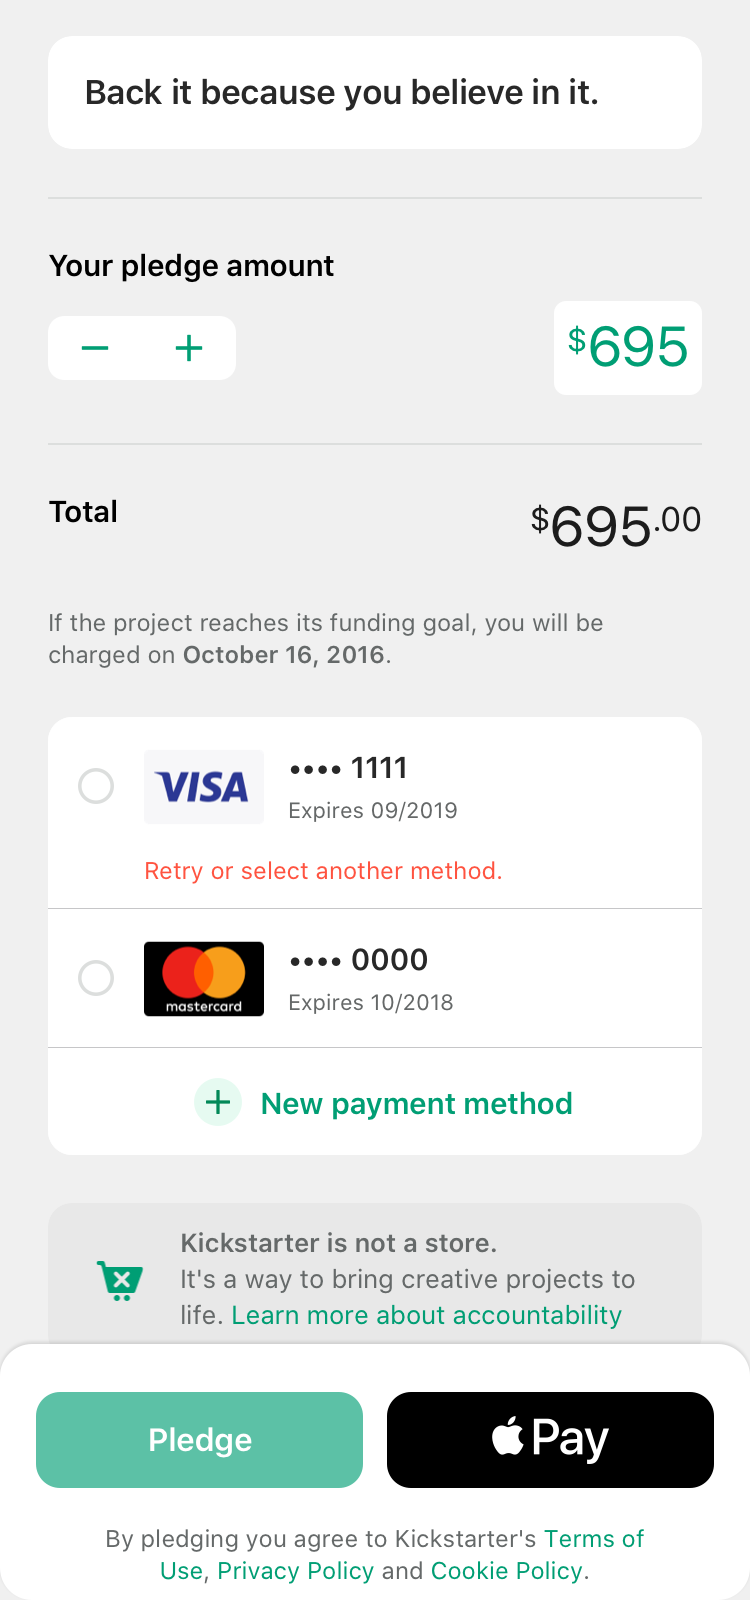
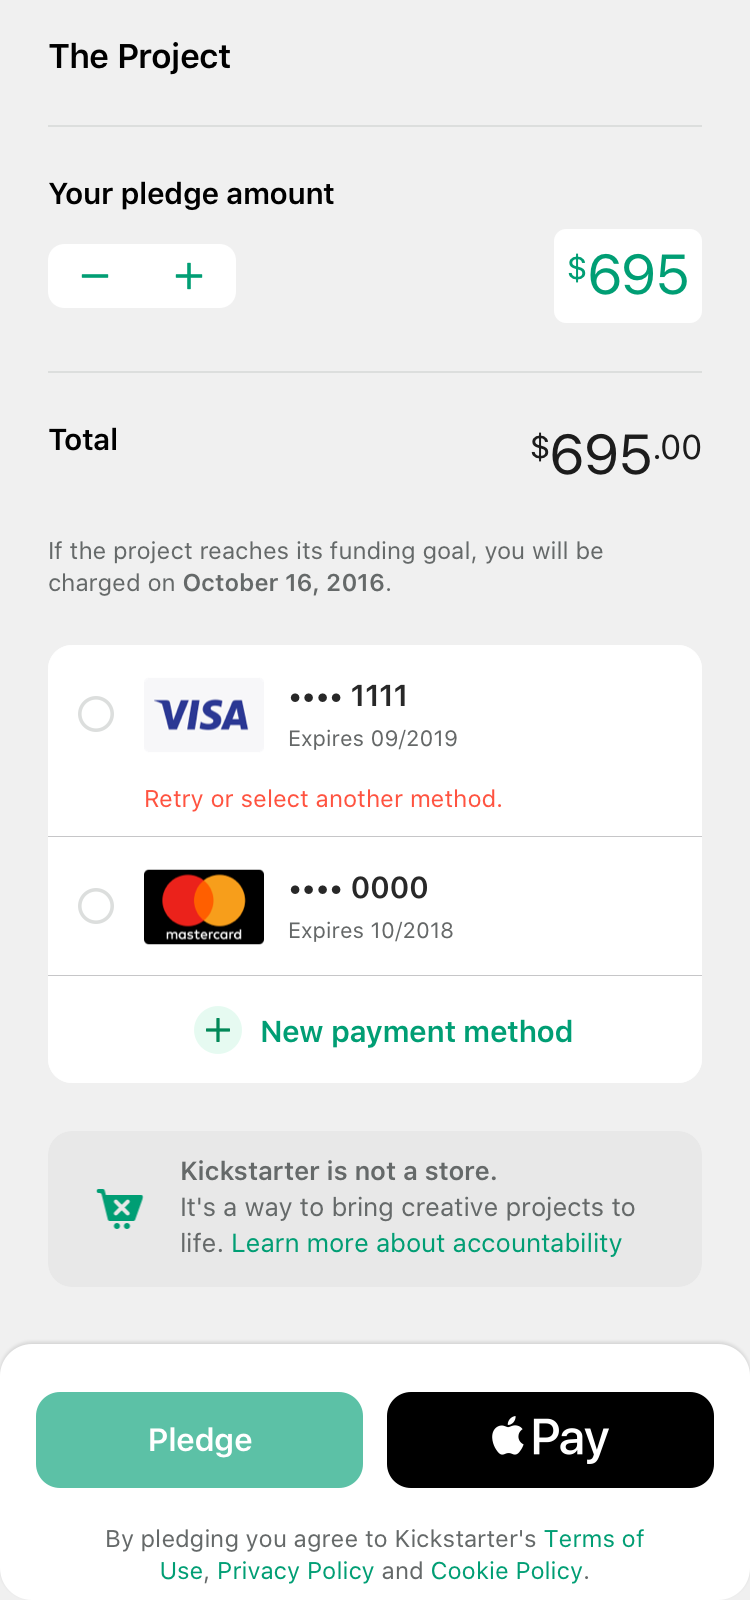
Replace PledgeDescriptionView with project title label

diff --git a/Library/ViewModels/PledgeViewModelTests.swift b/Library/ViewModels/PledgeViewModelTests.swift
@@ -41,7 +41,6 @@ final class PledgeViewModelTests: TestCase {
   private let configureWithPledgeViewDataProject = TestObserver<Project, Never>()
   private let configureWithPledgeViewDataReward = TestObserver<Reward, Never>()
 
-  private let descriptionViewHidden = TestObserver<Bool, Never>()
   private let descriptionSectionSeparatorHidden = TestObserver<Bool, Never>()
   private let expandableRewardsHeaderViewHidden = TestObserver<Bool, Never>()
 
@@ -62,6 +61,8 @@ final class PledgeViewModelTests: TestCase {
   private let pledgeAmountSummaryViewHidden = TestObserver<Bool, Never>()
   private let popToRootViewController = TestObserver<(), Never>()
   private let processingViewIsHidden = TestObserver<Bool, Never>()
+  private let projectTitle = TestObserver<String, Never>()
+  private let projectTitleLabelHidden = TestObserver<Bool, Never>()
   private let shippingLocationViewHidden = TestObserver<Bool, Never>()
   private let showApplePayAlertMessage = TestObserver<String, Never>()
   private let showApplePayAlertTitle = TestObserver<String, Never>()
@@ -118,7 +119,8 @@ final class PledgeViewModelTests: TestCase {
     self.vm.outputs.configureStripeIntegration.map(second)
       .observe(self.configureStripeIntegrationPublishableKey.observer)
 
-    self.vm.outputs.descriptionViewHidden.observe(self.descriptionViewHidden.observer)
+    self.vm.outputs.projectTitle.observe(self.projectTitle.observer)
+    self.vm.outputs.projectTitleLabelHidden.observe(self.projectTitleLabelHidden.observer)
     self.vm.outputs.descriptionSectionSeparatorHidden.observe(self.descriptionSectionSeparatorHidden.observer)
     self.vm.outputs.expandableRewardsHeaderViewHidden.observe(self.expandableRewardsHeaderViewHidden.observer)
 
@@ -205,7 +207,8 @@ final class PledgeViewModelTests: TestCase {
 
       self.configureSummaryViewControllerWithDataConfirmationLabelHidden.assertValues([false])
 
-      self.descriptionViewHidden.assertValues([true])
+      self.projectTitle.assertValues(["The Project"])
+      self.projectTitleLabelHidden.assertValues([true])
       self.expandableRewardsHeaderViewHidden.assertValues([false])
       self.rootStackViewLayoutMargins.assertValues([.init(bottom: Styles.grid(3))])
 
@@ -254,7 +257,8 @@ final class PledgeViewModelTests: TestCase {
 
       self.configureSummaryViewControllerWithDataConfirmationLabelHidden.assertValues([false])
 
-      self.descriptionViewHidden.assertValues([true])
+      self.projectTitle.assertValues(["The Project"])
+      self.projectTitleLabelHidden.assertValues([true])
       self.expandableRewardsHeaderViewHidden.assertValues([false])
       self.rootStackViewLayoutMargins.assertValues([.init(bottom: Styles.grid(3))])
 
@@ -303,7 +307,8 @@ final class PledgeViewModelTests: TestCase {
 
       self.configureSummaryViewControllerWithDataConfirmationLabelHidden.assertValues([false])
 
-      self.descriptionViewHidden.assertValues([true])
+      self.projectTitle.assertValues(["The Project"])
+      self.projectTitleLabelHidden.assertValues([true])
       self.expandableRewardsHeaderViewHidden.assertValues([true])
       self.rootStackViewLayoutMargins.assertValues([.init(topBottom: Styles.grid(3))])
 
@@ -354,7 +359,8 @@ final class PledgeViewModelTests: TestCase {
 
       self.configureSummaryViewControllerWithDataConfirmationLabelHidden.assertValues([true])
 
-      self.descriptionViewHidden.assertValues([true])
+      self.projectTitle.assertValues(["The Project"])
+      self.projectTitleLabelHidden.assertValues([true])
       self.expandableRewardsHeaderViewHidden.assertValues([false])
       self.rootStackViewLayoutMargins.assertValues([.init(bottom: Styles.grid(3))])
 
@@ -416,7 +422,8 @@ final class PledgeViewModelTests: TestCase {
 
       self.configureSummaryViewControllerWithDataConfirmationLabelHidden.assertValues([true])
 
-      self.descriptionViewHidden.assertValues([true])
+      self.projectTitle.assertValues(["The Project"])
+      self.projectTitleLabelHidden.assertValues([true])
       self.expandableRewardsHeaderViewHidden.assertValues([true])
       self.rootStackViewLayoutMargins.assertValues([.init(topBottom: Styles.grid(3))])
 
@@ -484,7 +491,8 @@ final class PledgeViewModelTests: TestCase {
 
       self.configurePledgeViewCTAContainerViewWillRetryPaymentMethod.assertValues([false])
 
-      self.descriptionViewHidden.assertValues([true])
+      self.projectTitle.assertValues(["The Project"])
+      self.projectTitleLabelHidden.assertValues([true])
       self.expandableRewardsHeaderViewHidden.assertValues([true])
       self.rootStackViewLayoutMargins.assertValues([.init(topBottom: Styles.grid(3))])
 
@@ -556,7 +564,8 @@ final class PledgeViewModelTests: TestCase {
 
       self.configureSummaryViewControllerWithDataConfirmationLabelHidden.assertValues([true])
 
-      self.descriptionViewHidden.assertValues([true])
+      self.projectTitle.assertValues(["The Project"])
+      self.projectTitleLabelHidden.assertValues([true])
       self.expandableRewardsHeaderViewHidden.assertValues([true])
       self.rootStackViewLayoutMargins.assertValues([.init(topBottom: Styles.grid(3))])
 

diff --git a/Library/ViewModels/PledgeViewModel.swift b/Library/ViewModels/PledgeViewModel.swift
@@ -57,7 +57,6 @@ public protocol PledgeViewModelOutputs {
   var configureStripeIntegration: Signal<StripeConfigurationData, Never> { get }
   var configureSummaryViewControllerWithData: Signal<PledgeSummaryViewData, Never> { get }
   var configureWithData: Signal<(project: Project, reward: Reward), Never> { get }
-  var descriptionViewHidden: Signal<Bool, Never> { get }
   var descriptionSectionSeparatorHidden: Signal<Bool, Never> { get }
   var expandableRewardsHeaderViewHidden: Signal<Bool, Never> { get }
   var goToApplePayPaymentAuthorization: Signal<PaymentAuthorizationData, Never> { get }
@@ -70,6 +69,8 @@ public protocol PledgeViewModelOutputs {
   var pledgeAmountSummaryViewHidden: Signal<Bool, Never> { get }
   var popToRootViewController: Signal<(), Never> { get }
   var processingViewIsHidden: Signal<Bool, Never> { get }
+  var projectTitle: Signal<String, Never> { get }
+  var projectTitleLabelHidden: Signal<Bool, Never> { get }
   var shippingLocationViewHidden: Signal<Bool, Never> { get }
   var showApplePayAlert: Signal<(String, String), Never> { get }
   var showErrorBannerWithMessage: Signal<String, Never> { get }
@@ -100,7 +101,7 @@ public class PledgeViewModel: PledgeViewModelType, PledgeViewModelInputs, Pledge
 
     let backing = project.map { $0.personalization.backing }.skipNil()
 
-    self.descriptionViewHidden = context
+    self.projectTitleLabelHidden = context
       .zip(with: reward)
       .map { context, reward in context.descriptionViewHidden || reward.isNoReward == false }
 
@@ -629,6 +630,8 @@ public class PledgeViewModel: PledgeViewModelType, PledgeViewModelInputs, Pledge
       hidden ? UIEdgeInsets(topBottom: Styles.grid(3)) : UIEdgeInsets(bottom: Styles.grid(3))
     }
 
+    self.projectTitle = project.map(\.name)
+
     self.title = context.map { $0.title }
     let contextAndProjectAndPledgeAmount = Signal.combineLatest(context, project, pledgeAmount)
 
@@ -807,7 +810,6 @@ public class PledgeViewModel: PledgeViewModelType, PledgeViewModelInputs, Pledge
   public let configureStripeIntegration: Signal<StripeConfigurationData, Never>
   public let configureSummaryViewControllerWithData: Signal<PledgeSummaryViewData, Never>
   public let configureWithData: Signal<(project: Project, reward: Reward), Never>
-  public let descriptionViewHidden: Signal<Bool, Never>
   public let descriptionSectionSeparatorHidden: Signal<Bool, Never>
   public let expandableRewardsHeaderViewHidden: Signal<Bool, Never>
   public let goToApplePayPaymentAuthorization: Signal<PaymentAuthorizationData, Never>
@@ -820,6 +822,8 @@ public class PledgeViewModel: PledgeViewModelType, PledgeViewModelInputs, Pledge
   public let pledgeAmountSummaryViewHidden: Signal<Bool, Never>
   public let popToRootViewController: Signal<(), Never>
   public let processingViewIsHidden: Signal<Bool, Never>
+  public let projectTitle: Signal<String, Never>
+  public let projectTitleLabelHidden: Signal<Bool, Never>
   public let shippingLocationViewHidden: Signal<Bool, Never>
   public let showErrorBannerWithMessage: Signal<String, Never>
   public let showApplePayAlert: Signal<(String, String), Never>

diff --git a/Kickstarter-iOS/Views/Controllers/PledgeViewController.swift b/Kickstarter-iOS/Views/Controllers/PledgeViewController.swift
@@ -34,6 +34,8 @@ final class PledgeViewController: UIViewController,
       |> \.translatesAutoresizingMaskIntoConstraints .~ false
   }()
 
+  private lazy var projectTitleLabel = UILabel(frame: .zero)
+
   private lazy var sectionSeparatorViews = {
     [self.descriptionSectionSeparator, self.summarySectionSeparator]
   }()
@@ -56,12 +58,7 @@ final class PledgeViewController: UIViewController,
   }()
 
   private lazy var descriptionSectionViews = {
-    [self.pledgeDescriptionView, self.descriptionSectionSeparator]
-  }()
-
-  private lazy var pledgeDescriptionView: PledgeDescriptionView = {
-    PledgeDescriptionView(frame: .zero)
-      |> \.translatesAutoresizingMaskIntoConstraints .~ false
+    [self.projectTitleLabel, self.descriptionSectionSeparator]
   }()
 
   private lazy var pledgeExpandableRewardsHeaderViewController = {
@@ -244,11 +241,11 @@ final class PledgeViewController: UIViewController,
     _ = self.view
       |> checkoutBackgroundStyle
 
-    _ = self.pledgeDescriptionView
-      |> roundedStyle(cornerRadius: Layout.Style.cornerRadius)
-
     _ = self.pledgeDisclaimerView
       |> pledgeDisclaimerViewStyle
+
+    _ = self.projectTitleLabel
+      |> projectTitleLabelStyle
 
     _ = self.rootScrollView
       |> rootScrollViewStyle
@@ -287,7 +284,6 @@ final class PledgeViewController: UIViewController,
     self.viewModel.outputs.configureWithData
       .observeForUI()
       .observeValues { [weak self] data in
-        self?.pledgeDescriptionView.configureWith(value: data)
         self?.pledgeAmountViewController.configureWith(value: data)
         self?.shippingLocationViewController.configureWith(value: data)
       }
@@ -370,7 +366,8 @@ final class PledgeViewController: UIViewController,
         self?.rootScrollView.handleKeyboardVisibilityDidChange(change)
       }
 
-    self.pledgeDescriptionView.rac.hidden = self.viewModel.outputs.descriptionViewHidden
+    self.projectTitleLabel.rac.text = self.viewModel.outputs.projectTitle
+    self.projectTitleLabel.rac.hidden = self.viewModel.outputs.projectTitleLabelHidden
     self.descriptionSectionSeparator.rac.hidden = self.viewModel.outputs.descriptionSectionSeparatorHidden
     self.summarySectionSeparator.rac.hidden = self.viewModel.outputs.summarySectionSeparatorHidden
 
@@ -625,6 +622,12 @@ extension PledgeViewController: PledgeDisclaimerViewDelegate {
 private let pledgeDisclaimerViewStyle: ViewStyle = { view in
   view
     |> roundedStyle(cornerRadius: Layout.Style.cornerRadius)
+}
+
+private let projectTitleLabelStyle: LabelStyle = { label in
+  label
+    |> \.font .~ UIFont.ksr_body().bolded
+    |> \.numberOfLines .~ 0
 }
 
 private let rootScrollViewStyle: ScrollStyle = { scrollView in
